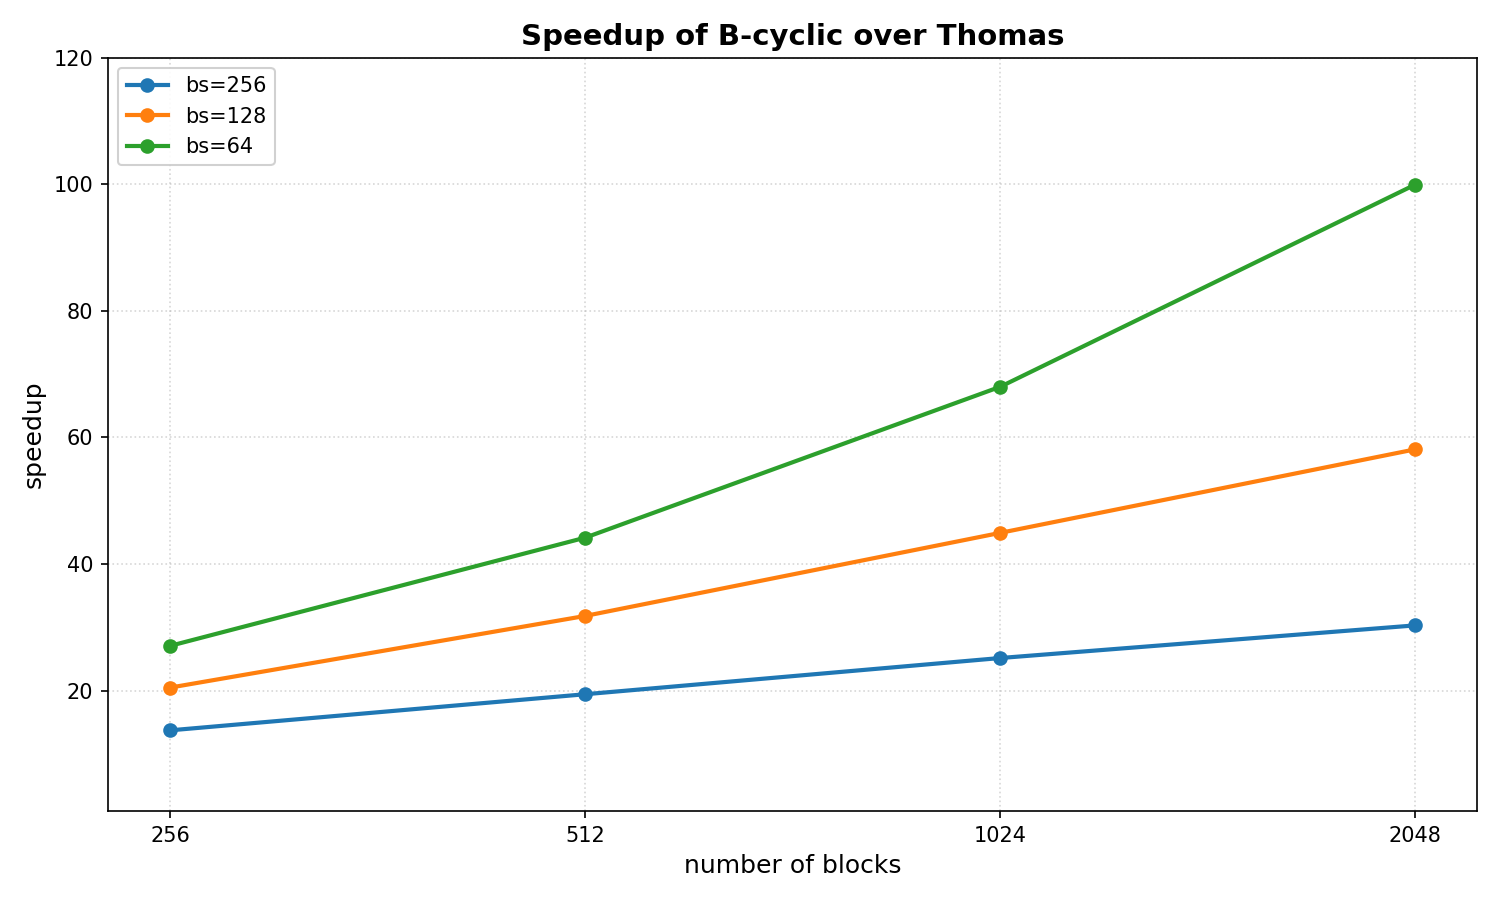
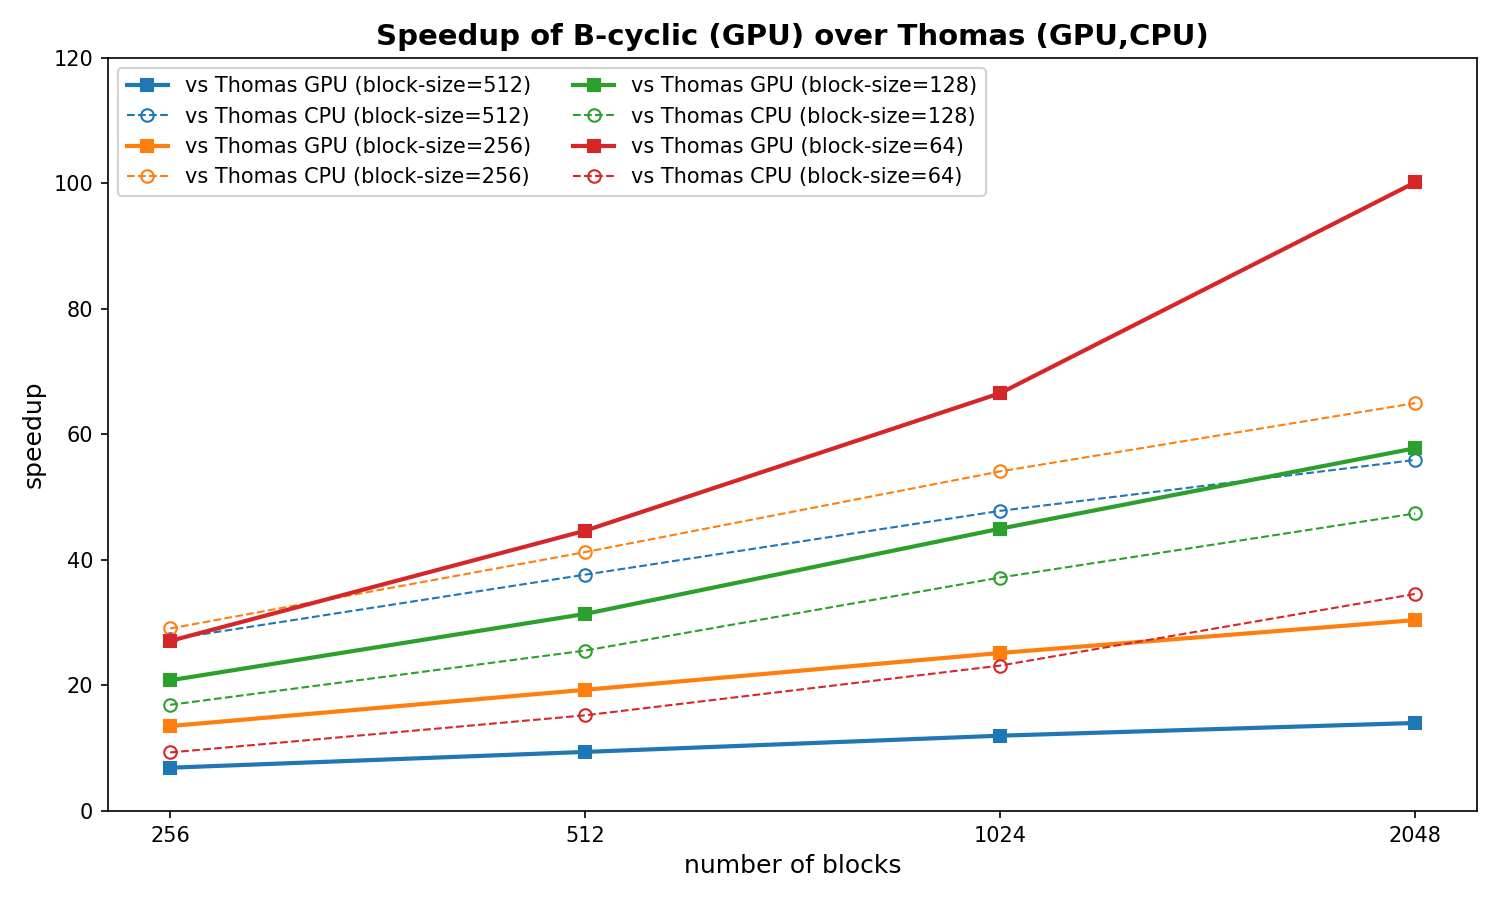
adding cpu timings

diff --git a/examples/timing/plot.py b/examples/timing/plot.py
@@ -60,21 +60,36 @@ def read_timing_results(filename):
 
 
 def main():
-    # Find the largest slurm*.out file
-    slurm_files = glob.glob("slurm-*.out")
-    if not slurm_files:
-        print("No slurm output files found.")
+    # Find the largest slurm-gpu*.out file
+    slurm_gpu_files = glob.glob("slurm-gpu*.out")
+    if not slurm_gpu_files:
+        print("No slurm-gpu output files found.")
+        return
+    slurm_cpu_files = glob.glob("slurm-cpu*.out")
+    if not slurm_cpu_files:
+        print("No slurm-cpu output files found.")
         return
 
-    largest_file = max(slurm_files, key=os.path.getsize)
-    print(f"Reading timing results from {largest_file}")
+    gpu_file = max(slurm_gpu_files, key=os.path.getsize)
+    cpu_file = max(slurm_cpu_files, key=os.path.getsize)
+    print(f"Reading timing results from {gpu_file} and {cpu_file}")
 
     (
         n_blocks,
         block_sizes,
         thomas_times,
         bcyclic_times,
-    ) = read_timing_results(largest_file)
+    ) = read_timing_results(gpu_file)
+
+    (
+        n_blocks_cpu,
+        block_sizes_cpu,
+        thomas_times_cpu,
+        bcyclic_times_cpu,
+    ) = read_timing_results(cpu_file)
+
+    assert (n_blocks == n_blocks_cpu).all()
+    assert (block_sizes == block_sizes_cpu).all()
 
     # unique_n_blocks = np.unique(n_blocks)
     unique_block_sizes = np.unique(block_sizes)[::-1]  # Reverse to plot largest first
@@ -87,7 +102,20 @@ def main():
 
     for i, bs in enumerate(unique_block_sizes):
         mask = block_sizes == bs
-        # Dashed line + filled marker for Thomas
+        # Thomas (cpu)
+        ax.plot(
+            n_blocks[mask],
+            thomas_times_cpu[mask],
+            marker="o",
+            linestyle=":",
+            color=colors[i],
+            linewidth=1,
+            markersize=6,
+            markeredgewidth=1,
+            markerfacecolor="none",
+            label=f"Thomas - CPU (block-size={bs})",
+        )
+        # Thomas (gpu)
         ax.plot(
             n_blocks[mask],
             thomas_times[mask],
@@ -96,10 +124,11 @@ def main():
             color=colors[i],
             linewidth=2,
             markersize=6,
+            markeredgewidth=2,
             markerfacecolor="none",
-            label=f"Thomas (bs={bs})",
+            label=f"Thomas - GPU (block-size={bs})",
         )
-        # Solid line + empty marker for B-cyclic
+        # B-cyclic (gpu)
         ax.plot(
             n_blocks[mask],
             bcyclic_times[mask],
@@ -108,50 +137,63 @@ def main():
             color=colors[i],
             linewidth=2,
             markersize=6,
-            label=f"B-cyclic (bs={bs})",
+            label=f"B-cyclic - GPU (block-size={bs})",
         )
 
     ax.set_xscale("log", base=2)
     ax.set_yscale("log", base=10)
     ax.set_xticks([256, 512, 1024, 2048])
     ax.set_xticklabels([256, 512, 1024, 2048])
-    ax.set_ylim(1e-3, 1e1)
+    ax.set_ylim(1e-3, 1e3)
     ax.set_xlabel("number of blocks", fontsize=12)
     ax.set_ylabel("time (s)", fontsize=12)
-    ax.set_title(
-        "Timing Comparison: Thomas vs B-cyclic", fontsize=14, fontweight="bold"
-    )
-    ax.legend(loc="upper left", framealpha=0.9, ncol=1)
-    ax.grid(True, which="both", ls=":", alpha=0.5)
+    ax.set_title("Timing Comparison", fontsize=14, fontweight="bold")
+    ax.legend(loc="upper left", framealpha=0.9, ncol=2)
     plt.tight_layout()
     plt.savefig("timing.png", dpi=150)
     plt.close()
     print("Saved plot as timing.png")
 
-    # Plot Speedup
+    # Plot Speedup (B-cyclic GPU vs Thomas GPU and CPU)
     fig, ax = plt.subplots(figsize=(10, 6))
     for i, bs in enumerate(unique_block_sizes):
         mask = block_sizes == bs
-        speedup = thomas_times[mask] / bcyclic_times[mask]
+        speedup_gpu = thomas_times[mask] / bcyclic_times[mask]
+        speedup_cpu = thomas_times_cpu[mask] / bcyclic_times[mask]
         ax.plot(
             n_blocks[mask],
-            speedup,
-            marker="o",
+            speedup_gpu,
+            marker="s",
             linestyle="-",
             color=colors[i],
             linewidth=2,
             markersize=6,
-            label=f"bs={bs}",
+            label=f"vs Thomas GPU (block-size={bs})",
+        )
+        ax.plot(
+            n_blocks[mask],
+            speedup_cpu,
+            marker="o",
+            linestyle="--",
+            color=colors[i],
+            linewidth=1,
+            markersize=6,
+            markeredgewidth=1,
+            markerfacecolor="none",
+            label=f"vs Thomas CPU (block-size={bs})",
         )
     ax.set_xscale("log", base=2)
     ax.set_xticks([256, 512, 1024, 2048])
     ax.set_xticklabels([256, 512, 1024, 2048])
-    ax.set_ylim(1, 120)
+    ax.set_ylim(0, 120)
     ax.set_xlabel("number of blocks", fontsize=12)
     ax.set_ylabel("speedup", fontsize=12)
-    ax.set_title("Speedup of B-cyclic over Thomas", fontsize=14, fontweight="bold")
-    ax.legend(loc="upper left", framealpha=0.9, ncol=1)
-    ax.grid(True, which="both", ls=":", alpha=0.5)
+    ax.set_title(
+        "Speedup of B-cyclic (GPU) over Thomas (GPU,CPU)",
+        fontsize=14,
+        fontweight="bold",
+    )
+    ax.legend(loc="upper left", framealpha=0.9, ncol=2)
     plt.tight_layout()
     plt.savefig("speedup.png", dpi=150)
     plt.close()

diff --git a/README.md b/README.md
@@ -39,6 +39,7 @@ x = solve_block_tridiagonal_bcyclic(n_blocks, lower, diag, upper, rhs)
 
 ![Timing comparison](examples/timing/timing.png)
 
+![Speedup](examples/timing/speedup.png)
 
 ## Links
 
